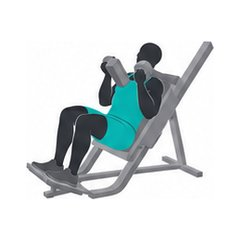
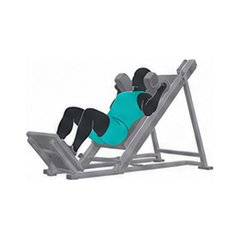
Phase 45: Exercise library expansion (#16)
Add 25 exercises with matching original illustrations from the second
owner-generated sheet (squat family, deadlift family, pull-up/chin-up,
rows, overhead pressing, dips/skull crusher, core, kettlebell swing as
the first Hybrid-group entry), plus improved hack squat and standing
calf raise artwork.

Claude-Session: https://claude.ai/code/session_01FBAcNERYg2onDPEnkShLV3

Changed region(s): [[0.0875, 0.1458, 0.9042, 0.8458]]

diff --git a/src/data/exerciseLibrary.ts b/src/data/exerciseLibrary.ts
@@ -10,26 +10,45 @@ export const exerciseLibrary: Exercise[] = [
   { id: 'bench-press', name: 'Bench Press', muscleGroup: 'Chest' },
   { id: 'incline-db-press', name: 'Incline Dumbbell Press', muscleGroup: 'Chest' },
   { id: 'dumbbell-fly', name: 'Dumbbell Fly', muscleGroup: 'Chest' },
+  { id: 'cable-crossover', name: 'Cable Crossover', muscleGroup: 'Chest' },
+  { id: 'push-up', name: 'Push-Up', muscleGroup: 'Chest' },
 
   // Shoulders
   { id: 'shoulder-press', name: 'Shoulder Press', muscleGroup: 'Shoulders' },
+  { id: 'overhead-press', name: 'Overhead Press', muscleGroup: 'Shoulders' },
+  { id: 'arnold-press', name: 'Arnold Press', muscleGroup: 'Shoulders' },
   { id: 'lateral-raise', name: 'Lateral Raise', muscleGroup: 'Shoulders' },
   { id: 'rear-delt-fly', name: 'Rear Delt Fly', muscleGroup: 'Shoulders' },
+  { id: 'face-pull', name: 'Face Pull', muscleGroup: 'Shoulders' },
+  { id: 'barbell-shrug', name: 'Barbell Shrug', muscleGroup: 'Shoulders' },
 
   // Back
   { id: 'lat-pulldown', name: 'Lat Pulldown', muscleGroup: 'Back' },
+  { id: 'pull-up', name: 'Pull-Up', muscleGroup: 'Back' },
+  { id: 'chin-up', name: 'Chin-Up', muscleGroup: 'Back' },
   { id: 'seated-cable-row', name: 'Seated Cable Row', muscleGroup: 'Back' },
   { id: 'barbell-row', name: 'Barbell Row', muscleGroup: 'Back' },
+  { id: 'dumbbell-row', name: 'Single-Arm Dumbbell Row', muscleGroup: 'Back' },
+  { id: 't-bar-row', name: 'T-Bar Row', muscleGroup: 'Back' },
+  { id: 'deadlift', name: 'Deadlift', muscleGroup: 'Back' },
 
   // Biceps
   { id: 'biceps-curl', name: 'Biceps Curl', muscleGroup: 'Biceps' },
   { id: 'hammer-curl', name: 'Hammer Curl', muscleGroup: 'Biceps' },
+  { id: 'preacher-curl', name: 'Preacher Curl', muscleGroup: 'Biceps' },
 
   // Triceps
   { id: 'triceps-pushdown', name: 'Triceps Pushdown', muscleGroup: 'Triceps' },
   { id: 'overhead-triceps-extension', name: 'Overhead Triceps Extension', muscleGroup: 'Triceps' },
+  { id: 'skull-crusher', name: 'Skull Crusher', muscleGroup: 'Triceps' },
+  { id: 'dips', name: 'Dips', muscleGroup: 'Triceps' },
 
   // Quads
+  { id: 'barbell-back-squat', name: 'Barbell Back Squat', muscleGroup: 'Quads' },
+  { id: 'front-squat', name: 'Front Squat', muscleGroup: 'Quads' },
+  { id: 'goblet-squat', name: 'Goblet Squat', muscleGroup: 'Quads' },
+  { id: 'bulgarian-split-squat', name: 'Bulgarian Split Squat', muscleGroup: 'Quads' },
+  { id: 'walking-lunge', name: 'Walking Lunge', muscleGroup: 'Quads' },
   { id: 'leg-press', name: 'Leg Press', muscleGroup: 'Quads' },
   { id: 'hack-squat', name: 'Hack Squat', muscleGroup: 'Quads' },
   { id: 'leg-extension', name: 'Leg Extension', muscleGroup: 'Quads' },
@@ -37,16 +56,24 @@ export const exerciseLibrary: Exercise[] = [
   // Hamstrings
   { id: 'hamstring-curl', name: 'Hamstring Curl', muscleGroup: 'Hamstrings' },
   { id: 'romanian-deadlift', name: 'Romanian Deadlift', muscleGroup: 'Hamstrings' },
+  { id: 'good-morning', name: 'Good Morning', muscleGroup: 'Hamstrings' },
 
   // Glutes
   { id: 'hip-thrust', name: 'Hip Thrust', muscleGroup: 'Glutes' },
+  { id: 'sumo-deadlift', name: 'Sumo Deadlift', muscleGroup: 'Glutes' },
 
   // Calves
   { id: 'standing-calf-raise', name: 'Standing Calf Raise', muscleGroup: 'Calves' },
+  { id: 'seated-calf-raise', name: 'Seated Calf Raise', muscleGroup: 'Calves' },
 
   // Core
   { id: 'cable-crunch', name: 'Cable Crunch', muscleGroup: 'Core' },
   { id: 'plank', name: 'Plank', muscleGroup: 'Core' },
+  { id: 'hanging-leg-raise', name: 'Hanging Leg Raise', muscleGroup: 'Core' },
+  { id: 'russian-twist', name: 'Russian Twist', muscleGroup: 'Core' },
+
+  // Hybrid / conditioning
+  { id: 'kettlebell-swing', name: 'Kettlebell Swing', muscleGroup: 'Hybrid' },
 ];
 
 /**

diff --git a/src/data/exerciseImages.ts b/src/data/exerciseImages.ts
@@ -31,4 +31,29 @@ export const exerciseImages: Record<string, number> = {
   'standing-calf-raise': require('../../assets/exercises/standing-calf-raise.jpg'),
   'cable-crunch': require('../../assets/exercises/cable-crunch.jpg'),
   'plank': require('../../assets/exercises/plank.jpg'),
+  'barbell-back-squat': require('../../assets/exercises/barbell-back-squat.jpg'),
+  'front-squat': require('../../assets/exercises/front-squat.jpg'),
+  'goblet-squat': require('../../assets/exercises/goblet-squat.jpg'),
+  'bulgarian-split-squat': require('../../assets/exercises/bulgarian-split-squat.jpg'),
+  'walking-lunge': require('../../assets/exercises/walking-lunge.jpg'),
+  'deadlift': require('../../assets/exercises/deadlift.jpg'),
+  'sumo-deadlift': require('../../assets/exercises/sumo-deadlift.jpg'),
+  'good-morning': require('../../assets/exercises/good-morning.jpg'),
+  'pull-up': require('../../assets/exercises/pull-up.jpg'),
+  'chin-up': require('../../assets/exercises/chin-up.jpg'),
+  'dumbbell-row': require('../../assets/exercises/dumbbell-row.jpg'),
+  't-bar-row': require('../../assets/exercises/t-bar-row.jpg'),
+  'face-pull': require('../../assets/exercises/face-pull.jpg'),
+  'barbell-shrug': require('../../assets/exercises/barbell-shrug.jpg'),
+  'overhead-press': require('../../assets/exercises/overhead-press.jpg'),
+  'arnold-press': require('../../assets/exercises/arnold-press.jpg'),
+  'cable-crossover': require('../../assets/exercises/cable-crossover.jpg'),
+  'push-up': require('../../assets/exercises/push-up.jpg'),
+  'dips': require('../../assets/exercises/dips.jpg'),
+  'skull-crusher': require('../../assets/exercises/skull-crusher.jpg'),
+  'preacher-curl': require('../../assets/exercises/preacher-curl.jpg'),
+  'seated-calf-raise': require('../../assets/exercises/seated-calf-raise.jpg'),
+  'hanging-leg-raise': require('../../assets/exercises/hanging-leg-raise.jpg'),
+  'russian-twist': require('../../assets/exercises/russian-twist.jpg'),
+  'kettlebell-swing': require('../../assets/exercises/kettlebell-swing.jpg'),
 };

diff --git a/PROJECT_STATE.md b/PROJECT_STATE.md
@@ -478,6 +478,12 @@ Previous Phase 6 recovery baseline remains available:
 - Sheet sliced 5×5 → per-exercise cells, whitespace-trimmed, padded ~28% so figures clear the circular crop, saved as 240×240 JPEG over `assets/exercises/` (~132 KB total). No code changes — `exerciseImages.ts` map and `ExerciseThumb` circular rendering carry over from Phase 43.
 - To regenerate or extend: reuse the Phase 43/44 prompt spec (in session history), slice with the same trim+pad pipeline, drop into `assets/exercises/`, add a map line for new exercises.
 
+### Phase 45: Exercise Library Expansion (22 → 47)
+
+- Owner generated a second 27-cell sheet in the same style (same ChatGPT conversation): 25 new exercises plus improved Hack Squat and Standing Calf Raise.
+- New exercises across all groups — squats (back/front/goblet/Bulgarian split/walking lunge), deadlifts (conventional under Back, sumo under Glutes, good morning), pull-up/chin-up/dumbbell row/T-bar row, face pull/shrug/overhead press/Arnold press, cable crossover/push-up, dips/skull crusher, preacher curl, seated calf raise, hanging leg raise/Russian twist, and kettlebell swing (first `Hybrid`-group exercise — the Hybrid filter chip now has content).
+- `exerciseLibrary.ts` now 47 entries; `exerciseImages.ts` has a bundled illustration for every one (47 × 240px JPEG, ~271 KB total).
+
 ## Important Files
 
 - `app/(tabs)/index.tsx`
